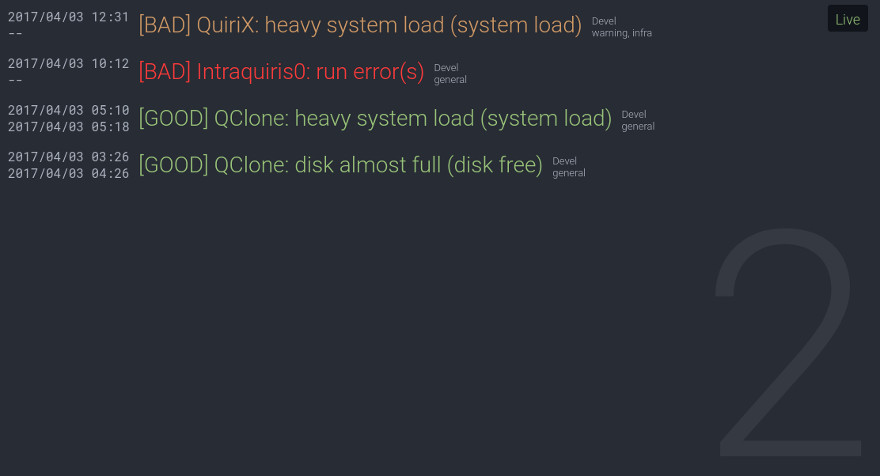
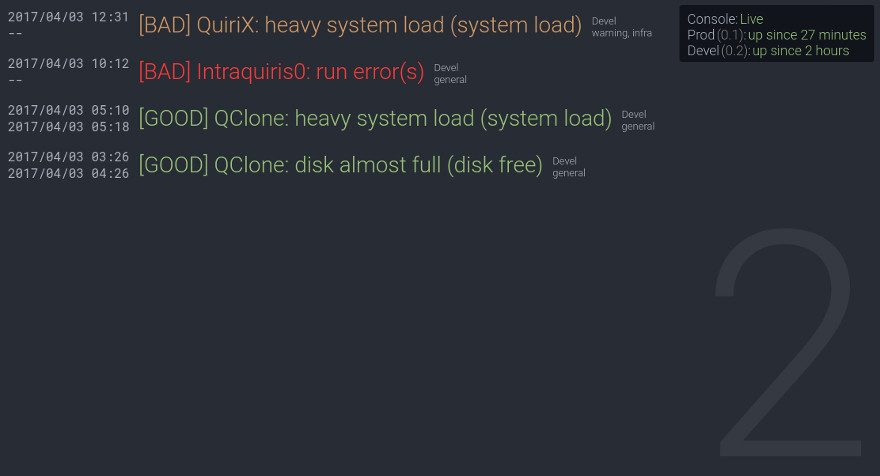
adding Nosee server heartbeat system

Changed region(s): [[0.767, 0.0, 1.0, 0.1471]]

diff --git a/static/index.js b/static/index.js
@@ -6,10 +6,14 @@
 // - auto-refresh on asset/config change?
 
 $(document).ready(function () {
+  var heartbeatBuildDelaySeconds = 3;
+  var heartbeatOfflineDelaySeconds = 70;
 
   var connecter;
   var conn;
-  var status = $('#status');
+  var statusConsole = $('#status-console .val');
+  var statusServers = $('#status-servers');
+  var servers = {};
   var sounds = {};
 
   function fmtDatetime(d) {
@@ -22,6 +26,28 @@ $(document).ready(function () {
            zero(d.getDate()) + " " +
            zero(d.getHours()) + ":" +
            zero(d.getMinutes());
+  }
+
+  function howago(durationSeconds) {
+    var res = parseInt(durationSeconds);
+    var secs   = res;
+    var mins   = Math.floor(res/60);
+    var hours  = Math.floor(res/60/60);
+    var days   = Math.floor(res/60/60/24);
+    var months = Math.floor(res/60/60/24/30);
+    var years  = Math.floor(res/60/60/24/30/12);
+
+    if(secs < 60)
+      return '' + secs + ' second' + (secs > 1 ? 's': '');
+    if(mins < 60)
+      return '' + mins + ' minute' + (mins > 1 ? 's': '');
+    if(hours < 48)
+      return '' + hours + ' hour' + (hours > 1 ? 's': '');
+    if(days < 40)
+      return '' + days + ' day' + (days > 1 ? 's': '');
+    if(months < 12)
+      return '' + months + ' month' + (months > 1 ? 's': '');
+    return '' + years + ' year' + (years > 1 ? 's': '');
   }
 
   function alertsEnhance(data) {
@@ -100,24 +126,77 @@ $(document).ready(function () {
     });
   }
 
+  function heartbeatBuild() {
+    statusServers.empty();
+    $.each(servers, function (i, server) {
+      var ts = Math.floor(Date.now() / 1000);
+
+      var cssClass = 'ok';
+      var txt = 'up since ' + howago(server.uptime);
+      if (ts - server.lastPing > heartbeatOfflineDelaySeconds) {
+        cssClass = 'ko';
+        txt = 'down since ' + howago(ts - server.lastPing);
+      }
+
+      $('<div/>', {
+        class: 'server',
+        text: server.name,
+      }).appendTo(statusServers)
+      .append(' ')
+      .append($('<span/>', {
+        class: 'ver',
+        text: '(' + server.version + ')',
+      }))
+      .append(': ')
+      .append($('<span/>', {
+        class: cssClass,
+        text: txt,
+      }));
+    });
+  }
+
+  function heartbeat(server, version, uptime) {
+    if (typeof servers[server] === "undefined") {
+      servers[server] = {
+        name: server,
+        uptime: uptime,
+        version: version,
+        lastPing: Math.floor(Date.now() / 1000),
+      }
+    } else {
+      servers[server].uptime = uptime;
+      servers[server].version = version;
+      servers[server].lastPing = Math.floor(Date.now() / 1000);
+    }
+  }
+
   function wsConnect() {
     // console.log("wsConnect");
     conn = new WebSocket("ws://" + document.location.host + "/ws");
     conn.onopen = function (evt) {
-      status.text("Live").attr('class', 'ok');
+      statusConsole.text("Live").removeClass('ko').addClass('ok');
       alertsRefresh();
     };
     conn.onclose = function (evt) {
-      status.text("No connection").attr('class', 'ko');
+      statusConsole.text("No connection").removeClass('ok').addClass('ko');
     };
     conn.onmessage = function (evt) {
-      alertsRefresh();
       console.log(evt.data);
-      switch (evt.data) {
+      var dataParts = evt.data.split('|')
+      switch (dataParts[0]) {
+        case 'heartbeat':
+          // dataParts[]: 1 = server, 2 = version, 3 = uptime (seconds)
+          heartbeat(dataParts[1], dataParts[2], dataParts[3]);
+          break;
+        case 'purged':
+          alertsRefresh();
+          break;
         case 'created':
+          alertsRefresh();
           sounds.failure.play();
           break;
         case 'fixed':
+          alertsRefresh();
           sounds.success.play();
           break;
       }
@@ -136,4 +215,6 @@ $(document).ready(function () {
   } else {
     status.text("no WebSocket support").attr('class', '');
   }
+
+  setInterval(heartbeatBuild, heartbeatBuildDelaySeconds * 1000);
 });

diff --git a/static/index.html b/static/index.html
@@ -10,7 +10,13 @@
 </head>
 <body>
 
-    <div id="status">No status.</div>
+    <div id="status">
+        <div id="status-console">
+            <span>Console:</span> <span class="val"></span>
+        </div>
+        <div id="status-servers">
+        </div>
+    </div>
     <main>
         <section id="alerts"></section>
         <div id="count"></div>

diff --git a/static/index.css b/static/index.css
@@ -17,12 +17,16 @@ body {
     z-index: 10;
 }
 
-#status.ok {
+#status .ok {
     color: #98c379;
 }
 
-#status.ko {
+#status .ko {
     color: #d26670;
+}
+
+#status .ver {
+    color: grey;
 }
 
 #alerts {

diff --git a/heartbeat.go b/heartbeat.go
@@ -1,0 +1,24 @@
+package main
+
+import (
+	"fmt"
+	"net/http"
+	"strconv"
+)
+
+func serveHeartbeat(hub *Hub, w http.ResponseWriter, r *http.Request) {
+	switch r.Method {
+	case "POST":
+		server := r.PostFormValue("server")
+		version := r.PostFormValue("version")
+		uptime := r.PostFormValue("uptime")
+
+		uptimeInt, _ := strconv.Atoi(uptime)
+
+		// crude data "encoding":
+		hub.Broadcast(fmt.Sprintf("heartbeat|%s|%s|%d", server, version, uptimeInt))
+		fmt.Fprintf(w, "heartbeat\n")
+	default:
+		http.Error(w, "Invalid request method.", 405)
+	}
+}

diff --git a/main.go b/main.go
@@ -39,6 +39,9 @@ func main() {
 		w.Header().Set("Cache-Control", "no-store, no-cache, must-revalidate")
 		serveAlerts(hub, w, r)
 	})
+	http.HandleFunc("/heartbeat", func(w http.ResponseWriter, r *http.Request) {
+		serveHeartbeat(hub, w, r)
+	})
 
 	log.Println("HTTP + WebSocket server listening:", *addr)
 	err := http.ListenAndServe(*addr, nil)
